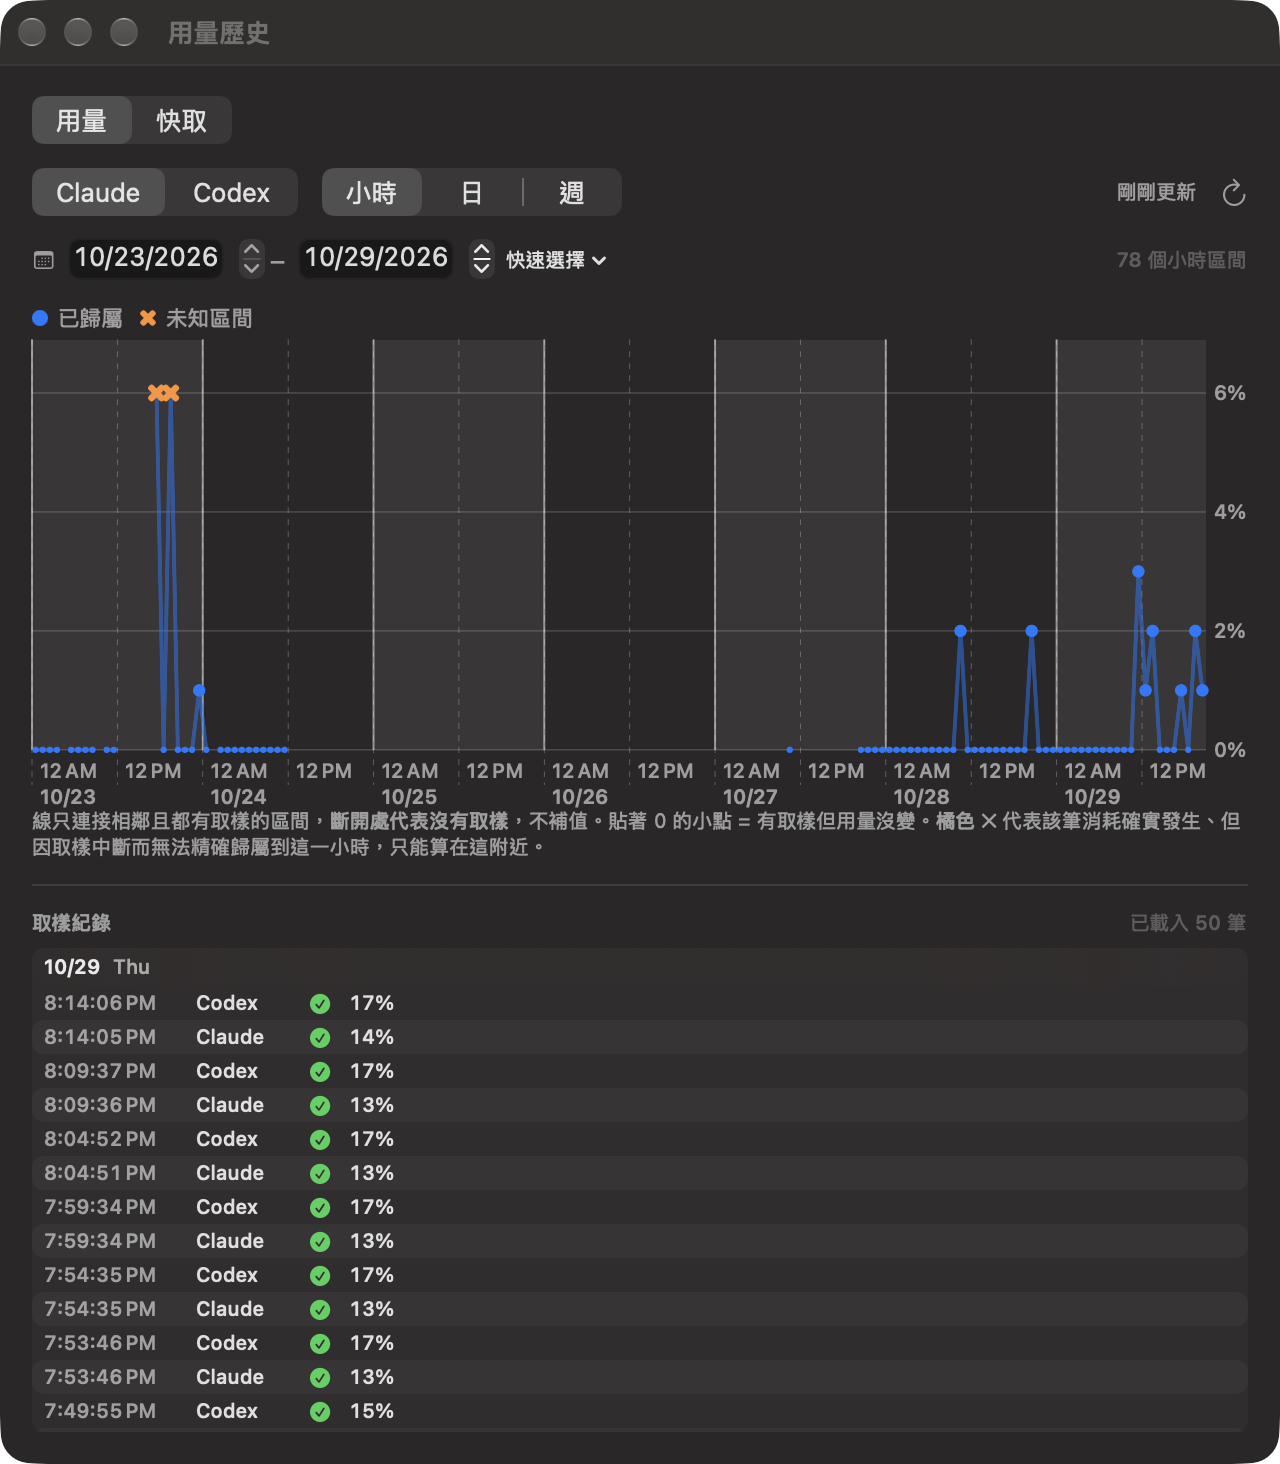
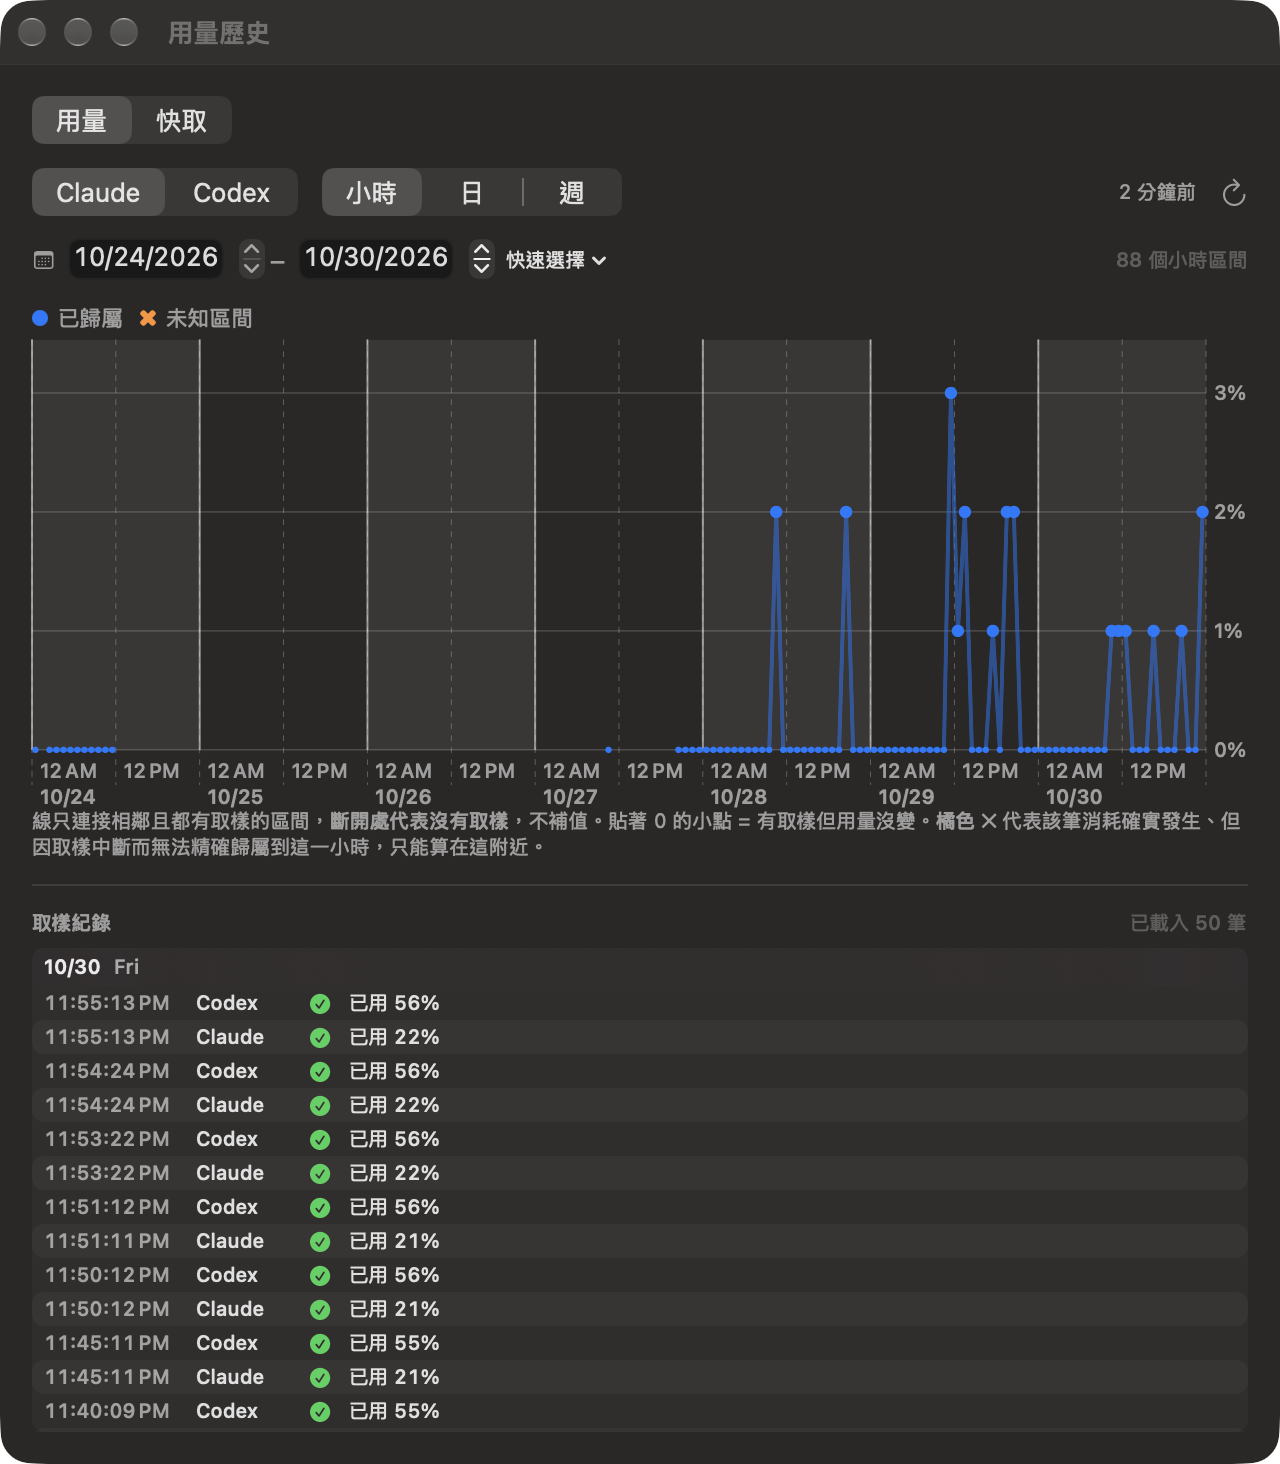
docs: 重拍歷史圖表截圖，取樣紀錄顯示已用

diff --git a/docs/status.md b/docs/status.md
@@ -32,7 +32,7 @@
 | 離線不計為失敗（`offline`） | ✅ 2026-10-10 起，**只限完全沒連線**；舊資料不回填。尚未在真的斷網時驗證 |
 | 重讀在背景執行，不卡畫面 | ✅ 2026-10-10 |
 | 選單顯示 5 小時窗的用量與重置倒數 | ✅ 2026-10-29。一天以內的倒數精確到分鐘 |
-| 百分比標明已用／剩餘 | ✅ 2026-10-30（D-027）。README 的 `usage.png` 取樣紀錄尚未重拍 |
+| 百分比標明已用／剩餘 | ✅ 2026-10-30（D-027） |
 | 寫不進資料庫時在選單持續顯示，直到寫成功 | ✅ 2026-10-10（D-025）。原本訊息會被重讀立刻清掉 |
 
 資料累積起點：2026-08-28 22:32:40，目前 22,156 筆樣本、12,533 筆快取請求紀錄（快取為手動匯入，數字停在上次匯入時）。
